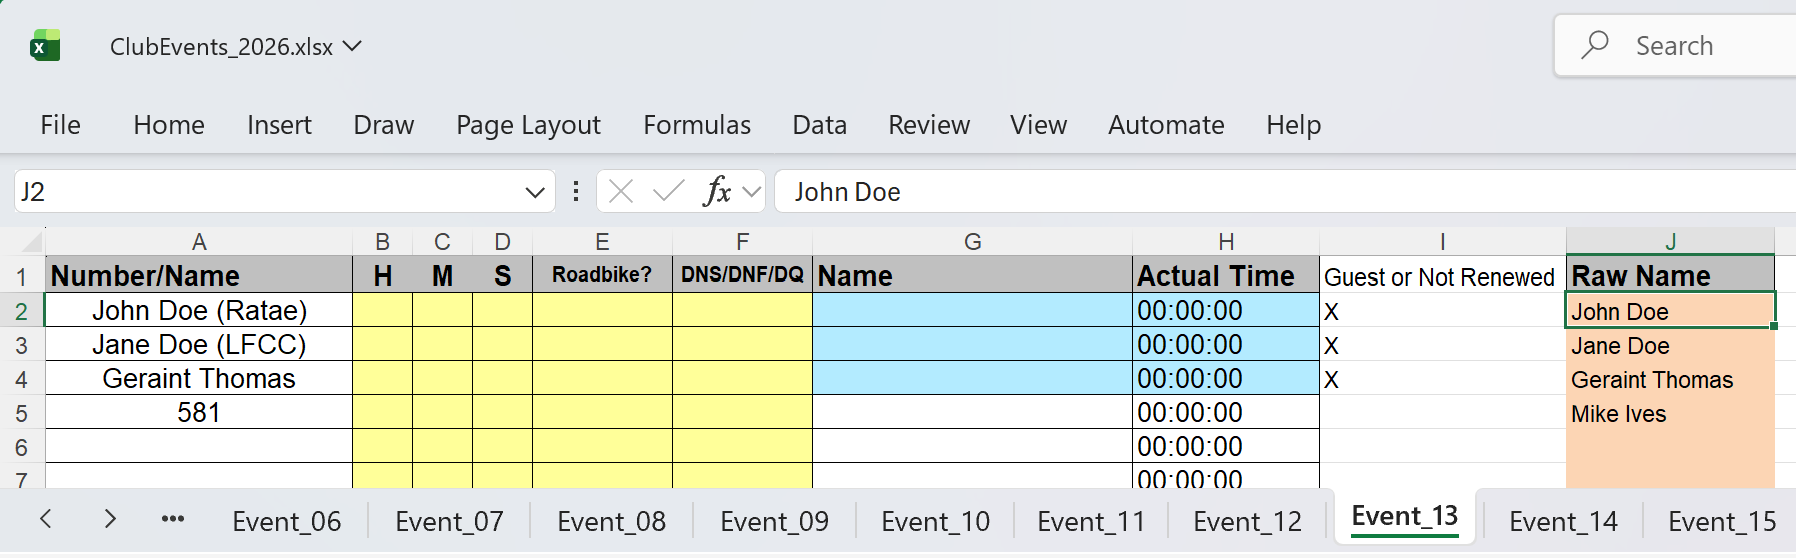
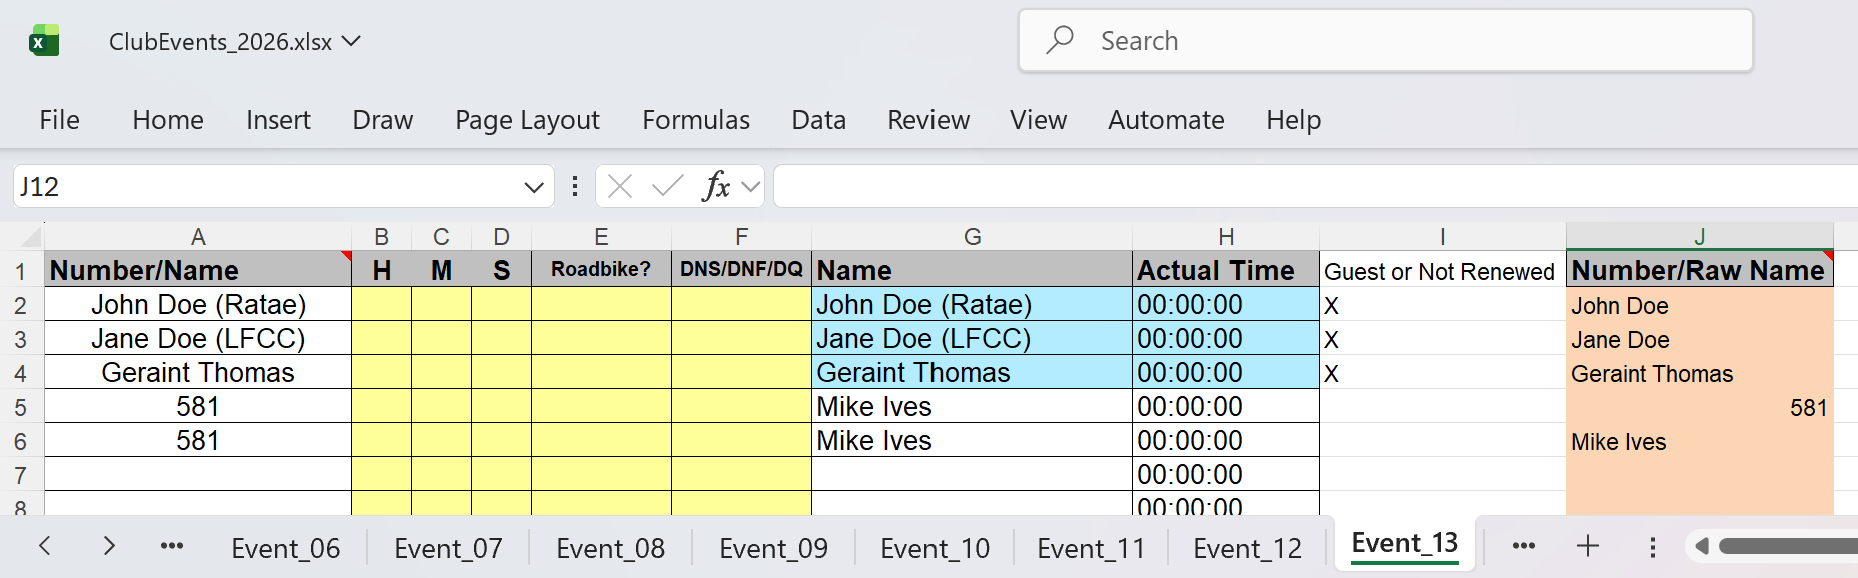
Round-robin README clarifications

diff --git a/developer-docs/Round-robin-README.md b/developer-docs/Round-robin-README.md
@@ -66,7 +66,7 @@ This sheet has been extended with two new columns:
 
 #### Event sheets - new Raw Name column to simplify results entry
 
-These sheets have an additional column `Raw Name`:
+These sheets have an additional column `Number/Raw Name`:
 
 ![ClubEvents_YYYY.xlsx Event sheets.png](/images/ClubEvents_YYYY-Event-sheets.png)
 
@@ -77,16 +77,15 @@ And column A (`Number/Name`) has been updated to make use of a formula:
 
 This formula follows the following algorithm:
 
-1.  Is the named rider a member of WVCC (`Competitors` sheet - populated with data from `Competitors_YYYY.csv`)?  Yes - use their member number. [ `Mike Ives` --> `581`]
+1.  Is the named rider a member of WVCC (`Competitors` sheet - populated with data from `Competitors_YYYY.csv`)?  Yes - use their member number. [ `Mike Ives` --> `581`].  This helps where club number was not provided at sign on.
 2. Is the named rider present in the `RoundRobinRiders` sheet?  Yes - use their `Decorated Name` which includes their club name in parenthesis. [`John Doe` --> `John Doe (Ratae)`]
-3. Otherwise - use the name 'as is'.  [`Geraint Thomas` --> `Geraint Thomas`]
+3. Otherwise - use the name.number 'as is'.  [`Geraint Thomas` --> `Geraint Thomas`; `581` --> `581`].  This is the 'right' way to enter a WVCC club member.
 
 > [!TIP]
 >
-> When entering event results, enter names in column J initially to make use of this lookup algorithm.  
+> When entering event results, enter WVCC club numbers, or (for guests) names in column J initially to make use of this lookup algorithm.  
 > 
-> However, you should overwrite the formula in column `A` with the rider's name if, at the time of the event, the rider is *not* a member of a club (WVCC or other Round Robin club).  This prevents issues if the rider later joins WVCC or one of the other clubs, where the formula would make it appear as though their membership was back-dated.
-
+> Overwrite the formula in column `A` with the rider's name if, at the time of the event, the rider is *not* a member of a club (WVCC or other Round Robin club).  This prevents issues if the rider later joins WVCC or one of the other clubs, where the formula would make it appear as though their membership was back-dated.
 
 ### Github pipeline script enhanced 
 
